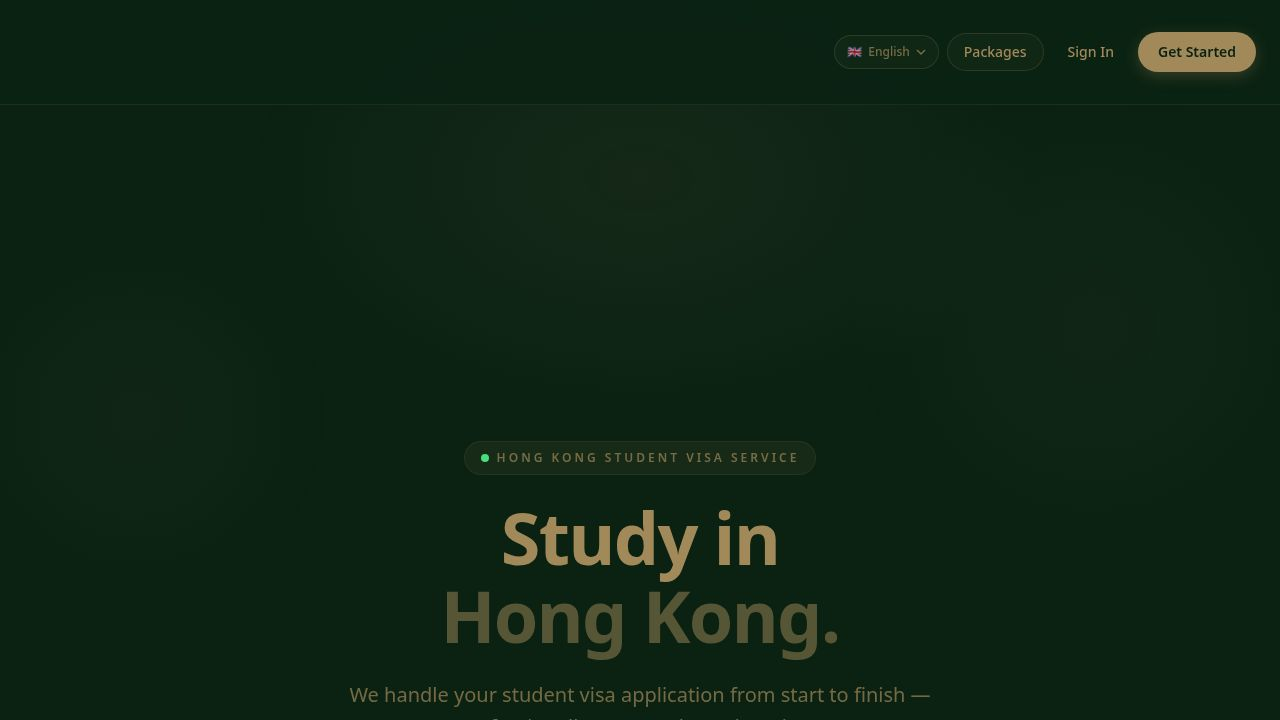
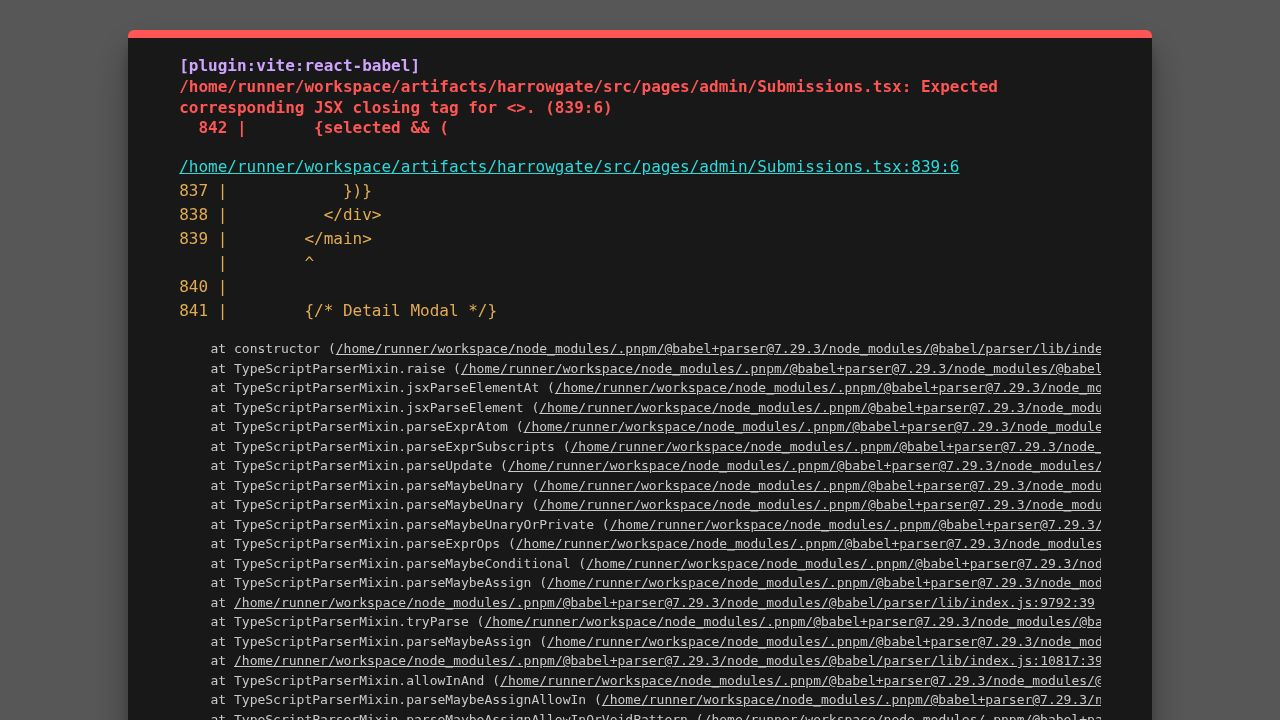
Add a trash folder to safely manage deleted student submissions
Introduces a trash folder feature for admin submissions, enabling soft deletes with options to restore or permanently remove entries, along with corresponding backend API and database schema updates.

Replit-Commit-Author: Agent
Replit-Commit-Session-Id: 0e906d90-2823-4895-9a54-f4814e1e0eb8
Replit-Commit-Checkpoint-Type: full_checkpoint
Replit-Commit-Event-Id: 7dc0c9eb-d9c4-4ed1-8bcb-ffb70824e429
Replit-Commit-Screenshot-Url: https://storage.googleapis.com/screenshot-production-us-central1/8406eb44-1c18-45e5-825a-162971318e71/0e906d90-2823-4895-9a54-f4814e1e0eb8/2MvQJAi
Replit-Helium-Checkpoint-Created: true

diff --git a/artifacts/harrowgate/src/pages/admin/Submissions.tsx b/artifacts/harrowgate/src/pages/admin/Submissions.tsx
@@ -178,6 +178,11 @@ export default function Submissions() {
   const [megaSyncing, setMegaSyncing] = useState(false);
   const [megaSyncResult, setMegaSyncResult] = useState<string | null>(null);
   const [showCourses, setShowCourses] = useState(false);
+  const [showTrash, setShowTrash] = useState(false);
+  const [trashItems, setTrashItems] = useState<Submission[]>([]);
+  const [trashLoading, setTrashLoading] = useState(false);
+  const [permDeleteConfirmId, setPermDeleteConfirmId] = useState<number | null>(null);
+  const [permDeleting, setPermDeleting] = useState(false);
   const [coursesLevel, setCoursesLevel] = useState<DegreeLevel>("masters");
   const [coursesSearch, setCoursesSearch] = useState("");
 
@@ -493,6 +498,34 @@ export default function Submissions() {
     finally { setDeletingSelected(false); }
   };
 
+  const loadTrash = async () => {
+    setTrashLoading(true);
+    try {
+      const res = await adminFetch(`${getApiBase()}/api/admin/trash`);
+      if (res.ok) setTrashItems(await res.json());
+    } catch { /* silent */ } finally { setTrashLoading(false); }
+  };
+
+  const restoreFromTrash = async (id: number) => {
+    try {
+      await adminFetch(`${getApiBase()}/api/admin/trash/${id}/restore`, { method: "POST" });
+      setTrashItems(prev => prev.filter(s => s.id !== id));
+      qc.invalidateQueries({ queryKey: ["admin-student-submissions"] });
+    } catch { alert("Failed to restore."); }
+  };
+
+  const permanentDelete = async (id: number) => {
+    setPermDeleting(true);
+    try {
+      await adminFetch(`${getApiBase()}/api/admin/trash/${id}`, { method: "DELETE" });
+      setTrashItems(prev => prev.filter(s => s.id !== id));
+      setPermDeleteConfirmId(null);
+    } catch { alert("Failed to permanently delete."); }
+    finally { setPermDeleting(false); }
+  };
+
+  useEffect(() => { if (showTrash) loadTrash(); }, [showTrash]);
+
   const megaSyncTarget: Submission | null =
     selected ??
     (selectedIds.size === 1
@@ -571,6 +604,11 @@ export default function Submissions() {
               <svg viewBox="0 0 16 16" fill="none" className="w-3.5 h-3.5 shrink-0"><path d="M2 4h12M2 8h12M2 12h7" stroke="currentColor" strokeWidth="1.5" strokeLinecap="round"/></svg>
               Courses
             </button>
+            <button onClick={() => setShowTrash(v => !v)}
+              className="flex items-center gap-2 text-xs font-semibold px-4 py-2 rounded-full border transition-all hover:opacity-80"
+              style={{ borderColor: showTrash ? "rgba(248,113,113,0.35)" : "rgba(162,137,89,0.2)", color: showTrash ? "#f87171" : "rgba(162,137,89,0.55)", background: showTrash ? "rgba(248,113,113,0.08)" : "rgba(162,137,89,0.05)" }}>
+              🗑 Trash
+            </button>
             <button onClick={() => { localStorage.removeItem("admin_token"); window.location.href = "/admin/login"; }}
               className="flex items-center gap-2 text-xs font-semibold px-4 py-2 rounded-full border transition-all hover:opacity-80"
               style={{ borderColor: "rgba(162,137,89,0.2)", color: "rgba(162,137,89,0.55)", background: "rgba(162,137,89,0.05)" }}>
@@ -589,6 +627,74 @@ export default function Submissions() {
             </button>
           </div>
         </div>
+
+        {/* ── TRASH VIEW ── */}
+        {showTrash && (
+          <div className="mb-8">
+            <div className="flex items-center gap-3 mb-5">
+              <div className="w-8 h-8 rounded-xl flex items-center justify-center shrink-0"
+                style={{ background: "rgba(248,113,113,0.1)", color: "#f87171" }}>🗑</div>
+              <div>
+                <p className="text-sm font-bold" style={{ color: "#f87171" }}>Trash</p>
+                <p className="text-xs" style={{ color: "rgba(248,113,113,0.5)" }}>
+                  {trashItems.length} deleted profile{trashItems.length !== 1 ? "s" : ""} — restore or permanently delete
+                </p>
+              </div>
+              <button onClick={loadTrash} disabled={trashLoading}
+                className="ml-auto text-xs font-medium px-3 py-1.5 rounded-full border transition-all hover:opacity-80 disabled:opacity-40"
+                style={{ borderColor: "rgba(248,113,113,0.2)", color: "rgba(248,113,113,0.6)" }}>
+                {trashLoading ? "Loading…" : "↻ Refresh"}
+              </button>
+            </div>
+
+            {trashLoading && (
+              <div className="text-center py-12"><div className="w-6 h-6 rounded-full border-2 animate-spin mx-auto" style={{ borderColor: "#f87171", borderTopColor: "transparent" }} /></div>
+            )}
+
+            {!trashLoading && trashItems.length === 0 && (
+              <div className="text-center py-16 rounded-2xl border" style={{ borderColor: "rgba(248,113,113,0.1)", background: "rgba(248,113,113,0.02)" }}>
+                <p className="text-3xl mb-3">🗑</p>
+                <p className="text-sm font-semibold" style={{ color: "rgba(248,113,113,0.5)" }}>Trash is empty</p>
+              </div>
+            )}
+
+            {!trashLoading && trashItems.map(item => (
+              <div key={item.id} className="rounded-2xl border mb-3 overflow-hidden"
+                style={{ background: "rgba(248,113,113,0.03)", borderColor: "rgba(248,113,113,0.15)" }}>
+                <div className="px-5 py-4 flex items-center justify-between gap-4 flex-wrap">
+                  <div className="flex items-center gap-3 min-w-0">
+                    <div className="w-9 h-9 rounded-full flex items-center justify-center shrink-0 text-sm font-bold"
+                      style={{ background: "rgba(248,113,113,0.1)", color: "#f87171" }}>
+                      {item.name.charAt(0).toUpperCase()}
+                    </div>
+                    <div className="min-w-0">
+                      <p className="text-sm font-semibold truncate" style={{ color: "rgba(162,137,89,0.8)" }}>{item.name}</p>
+                      <p className="text-xs" style={{ color: "rgba(162,137,89,0.4)" }}>
+                        {item.email || "No email"} · {item.documents.length} doc{item.documents.length !== 1 ? "s" : ""}
+                        {item.deletedAt && <span className="ml-2">· Deleted {new Date(item.deletedAt).toLocaleDateString()}</span>}
+                      </p>
+                    </div>
+                  </div>
+                  <div className="flex items-center gap-2 shrink-0">
+                    <button onClick={() => restoreFromTrash(item.id)}
+                      className="text-xs font-semibold px-3 py-1.5 rounded-xl border transition-all hover:opacity-80"
+                      style={{ background: "rgba(74,222,128,0.06)", borderColor: "rgba(74,222,128,0.25)", color: "#4ade80" }}>
+                      ↩ Restore
+                    </button>
+                    <button onClick={() => setPermDeleteConfirmId(item.id)}
+                      className="text-xs font-semibold px-3 py-1.5 rounded-xl border transition-all hover:opacity-80"
+                      style={{ background: "rgba(248,113,113,0.06)", borderColor: "rgba(248,113,113,0.3)", color: "#f87171" }}>
+                      Delete Forever
+                    </button>
+                  </div>
+                </div>
+              </div>
+            ))}
+          </div>
+        )}
+
+        {/* ── NORMAL LIST (hidden when trash is open) ── */}
+        {!showTrash && (<>
 
         <div className="flex gap-2 mb-6 flex-wrap">
           {filterKeys.map(f => (
@@ -631,7 +737,7 @@ export default function Submissions() {
                 <button onClick={() => setDeleteConfirmOpen(true)}
                   className="flex items-center gap-1.5 text-xs font-semibold px-3 py-1.5 rounded-full border transition-all hover:opacity-80"
                   style={{ background: "rgba(248,113,113,0.06)", borderColor: "rgba(248,113,113,0.22)", color: "#f87171" }}>
-                  🗑 Delete
+                  🗑 Move to Trash
                 </button>
               </div>
             )}
@@ -730,6 +836,8 @@ export default function Submissions() {
             );
           })}
         </div>
+
+        </>)}
       </main>
 
       {/* Detail Modal */}
@@ -1669,16 +1777,16 @@ export default function Submissions() {
         </div>
       )}
 
-      {/* Delete Confirmation Modal */}
+      {/* Move to Trash Confirmation Modal */}
       {deleteConfirmOpen && (
         <div className="fixed inset-0 z-[100] flex items-center justify-center" style={{ background: "rgba(0,0,0,0.75)", backdropFilter: "blur(6px)" }}>
           <div className="rounded-2xl border overflow-hidden max-w-sm w-full mx-4" style={{ background: "#0b2213", borderColor: "rgba(248,113,113,0.3)" }}>
             <div className="px-6 py-5 border-b" style={{ borderColor: "rgba(248,113,113,0.12)" }}>
-              <p className="text-base font-bold" style={{ color: "#f87171" }}>🗑 Delete {selectedIds.size} Profile{selectedIds.size !== 1 ? "s" : ""}?</p>
+              <p className="text-base font-bold" style={{ color: "#f87171" }}>🗑 Move {selectedIds.size} Profile{selectedIds.size !== 1 ? "s" : ""} to Trash?</p>
             </div>
             <div className="px-6 py-5">
               <p className="text-sm mb-6 leading-relaxed" style={{ color: "rgba(162,137,89,0.6)" }}>
-                This will permanently remove {selectedIds.size === 1 ? "this student profile" : `these ${selectedIds.size} student profiles`} — including all uploaded documents and messages. This cannot be undone.
+                {selectedIds.size === 1 ? "This profile" : `These ${selectedIds.size} profiles`} will be moved to the Trash folder. You can restore or permanently delete them from there.
               </p>
               <div className="flex gap-3">
                 <button onClick={() => setDeleteConfirmOpen(false)} disabled={deletingSelected}
@@ -1690,8 +1798,38 @@ export default function Submissions() {
                   className="flex-1 py-2.5 rounded-xl text-sm font-semibold border transition-all hover:opacity-80 disabled:opacity-40 flex items-center justify-center gap-2"
                   style={{ background: "rgba(248,113,113,0.08)", borderColor: "rgba(248,113,113,0.3)", color: "#f87171" }}>
                   {deletingSelected
+                    ? <><span className="w-3 h-3 rounded-full border animate-spin" style={{ borderColor: "#f87171", borderTopColor: "transparent" }} /> Moving…</>
+                    : `🗑 Move to Trash`}
+                </button>
+              </div>
+            </div>
+          </div>
+        </div>
+      )}
+
+      {/* Permanent Delete Confirmation Modal */}
+      {permDeleteConfirmId !== null && (
+        <div className="fixed inset-0 z-[110] flex items-center justify-center" style={{ background: "rgba(0,0,0,0.85)", backdropFilter: "blur(6px)" }}>
+          <div className="rounded-2xl border overflow-hidden max-w-sm w-full mx-4" style={{ background: "#0b2213", borderColor: "rgba(248,113,113,0.5)" }}>
+            <div className="px-6 py-5 border-b" style={{ borderColor: "rgba(248,113,113,0.18)" }}>
+              <p className="text-base font-bold" style={{ color: "#f87171" }}>⚠️ Permanently Delete?</p>
+            </div>
+            <div className="px-6 py-5">
+              <p className="text-sm mb-6 leading-relaxed" style={{ color: "rgba(162,137,89,0.6)" }}>
+                This will <strong style={{ color: "#f87171" }}>permanently remove</strong> this student profile, all uploaded documents and messages. <strong style={{ color: "#f87171" }}>This cannot be undone.</strong>
+              </p>
+              <div className="flex gap-3">
+                <button onClick={() => setPermDeleteConfirmId(null)} disabled={permDeleting}
+                  className="flex-1 py-2.5 rounded-xl text-sm font-semibold border transition-all hover:opacity-80 disabled:opacity-40"
+                  style={{ borderColor: "rgba(162,137,89,0.18)", color: "rgba(162,137,89,0.55)" }}>
+                  Cancel
+                </button>
+                <button onClick={() => permanentDelete(permDeleteConfirmId)} disabled={permDeleting}
+                  className="flex-1 py-2.5 rounded-xl text-sm font-semibold border transition-all hover:opacity-80 disabled:opacity-40 flex items-center justify-center gap-2"
+                  style={{ background: "rgba(248,113,113,0.12)", borderColor: "rgba(248,113,113,0.5)", color: "#f87171" }}>
+                  {permDeleting
                     ? <><span className="w-3 h-3 rounded-full border animate-spin" style={{ borderColor: "#f87171", borderTopColor: "transparent" }} /> Deleting…</>
-                    : `🗑 Delete ${selectedIds.size}`}
+                    : "Delete Forever"}
                 </button>
               </div>
             </div>

diff --git a/artifacts/api-server/src/routes/adminSubmissions.ts b/artifacts/api-server/src/routes/adminSubmissions.ts
@@ -6,7 +6,7 @@ import {
   studentDocumentsTable,
   studentMessagesTable,
 } from "@workspace/db/schema";
-import { eq, desc, and } from "drizzle-orm";
+import { eq, desc, and, isNull, isNotNull } from "drizzle-orm";
 import { ObjectStorageService, ObjectNotFoundError } from "../lib/objectStorage";
 import { sendApprovalEmail, sendDocsRequestedEmail, sendInterviewInviteEmail, sendUniversityInterviewInviteEmail, sendAdditionalDocsRequestEmail, sendOfferLetterAvailableEmail, sendOfferLetterConfirmedEmail, sendCustomMessageToStudentEmail, sendEVisaReadyEmail } from "../email";
 import { upsertStudentRow, deleteStudentRow } from "../lib/googleIntegration";
@@ -27,7 +27,9 @@ const VALID_STATUSES = [
 
 router.get("/admin/student-submissions", async (_req, res) => {
   try {
-    const submissions = await db.select().from(studentSubmissionsTable).orderBy(desc(studentSubmissionsTable.createdAt));
+    const submissions = await db.select().from(studentSubmissionsTable)
+      .where(isNull(studentSubmissionsTable.deletedAt))
+      .orderBy(desc(studentSubmissionsTable.createdAt));
     const withDocs = await Promise.all(submissions.map(async (s) => {
       const documents = await db.select().from(studentDocumentsTable).where(eq(studentDocumentsTable.submissionId, s.id));
       return { ...s, documents };
@@ -268,17 +270,52 @@ router.post("/admin/student-submissions/:id/upload-offer-letter", async (req: an
   } catch { res.status(500).json({ error: "Failed to upload offer letter" }); }
 });
 
-// Admin deletes an entire student submission (all docs + messages + record)
+// Admin soft-deletes a student submission (moves to trash)
 router.delete("/admin/student-submissions/:id", async (req: any, res) => {
+  try {
+    const id = parseInt(req.params.id);
+    await db.update(studentSubmissionsTable)
+      .set({ deletedAt: new Date() })
+      .where(eq(studentSubmissionsTable.id, id));
+    res.json({ success: true });
+  } catch { res.status(500).json({ error: "Failed to move submission to trash" }); }
+});
+
+// Admin: list trashed submissions
+router.get("/admin/trash", async (_req, res) => {
+  try {
+    const submissions = await db.select().from(studentSubmissionsTable)
+      .where(isNotNull(studentSubmissionsTable.deletedAt))
+      .orderBy(desc(studentSubmissionsTable.deletedAt));
+    const withDocs = await Promise.all(submissions.map(async (s) => {
+      const documents = await db.select().from(studentDocumentsTable).where(eq(studentDocumentsTable.submissionId, s.id));
+      return { ...s, documents };
+    }));
+    res.json(withDocs);
+  } catch { res.status(500).json({ error: "Failed to fetch trash" }); }
+});
+
+// Admin: restore a trashed submission
+router.post("/admin/trash/:id/restore", async (req: any, res) => {
+  try {
+    const id = parseInt(req.params.id);
+    await db.update(studentSubmissionsTable)
+      .set({ deletedAt: null })
+      .where(eq(studentSubmissionsTable.id, id));
+    res.json({ success: true });
+  } catch { res.status(500).json({ error: "Failed to restore submission" }); }
+});
+
+// Admin: permanently delete a trashed submission
+router.delete("/admin/trash/:id", async (req: any, res) => {
   try {
     const id = parseInt(req.params.id);
     await db.delete(studentMessagesTable).where(eq(studentMessagesTable.submissionId, id));
     await db.delete(studentDocumentsTable).where(eq(studentDocumentsTable.submissionId, id));
     await db.delete(studentSubmissionsTable).where(eq(studentSubmissionsTable.id, id));
-    // Remove from Sheets (fire-and-forget)
     deleteStudentRow(id).catch(err => console.error("[Google Sheets] delete row failed:", err));
     res.json({ success: true });
-  } catch { res.status(500).json({ error: "Failed to delete submission" }); }
+  } catch { res.status(500).json({ error: "Failed to permanently delete submission" }); }
 });
 
 // Admin: bulk sync all existing students to Google Sheets

diff --git a/artifacts/harrowgate/src/pages/student/Portal.tsx b/artifacts/harrowgate/src/pages/student/Portal.tsx
@@ -73,6 +73,7 @@ export type Submission = {
   additionalDocsRequested?: boolean | null; additionalDocsRequestNote?: string | null;
   immigrationRefNumber?: string | null;
   termsAcceptedAt?: string | null;
+  deletedAt?: string | null;
   documents: Array<{ id: number; submissionId: number; documentType: string; fileName: string; fileUrl: string; mimeType?: string | null }>;
 };
 

diff --git a/lib/db/src/schema/studentSubmissions.ts b/lib/db/src/schema/studentSubmissions.ts
@@ -21,6 +21,7 @@ export const studentSubmissionsTable = pgTable("student_submissions", {
   immigrationRefNumber: text("immigration_ref_number"),
   termsAcceptedAt: timestamp("terms_accepted_at", { withTimezone: true }),
   termsSignatureUrl: text("terms_signature_url"),
+  deletedAt: timestamp("deleted_at", { withTimezone: true }),
   createdAt: timestamp("created_at", { withTimezone: true }).notNull().defaultNow(),
   updatedAt: timestamp("updated_at", { withTimezone: true }).notNull().defaultNow().$onUpdate(() => new Date()),
 });